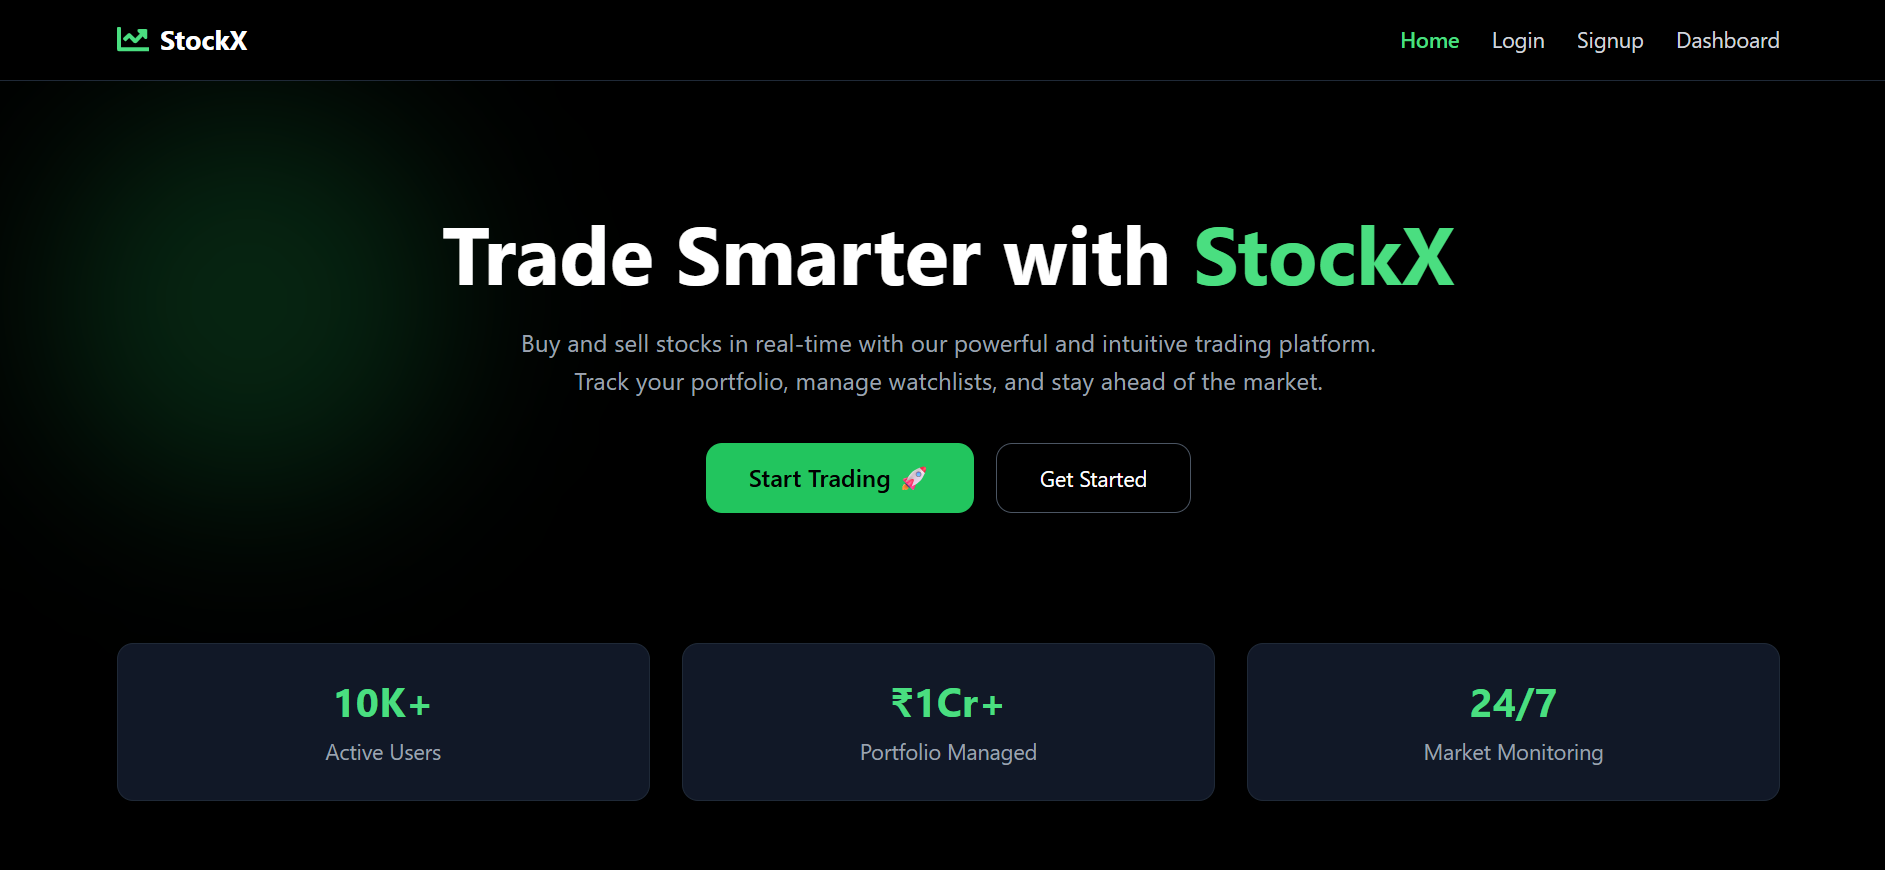
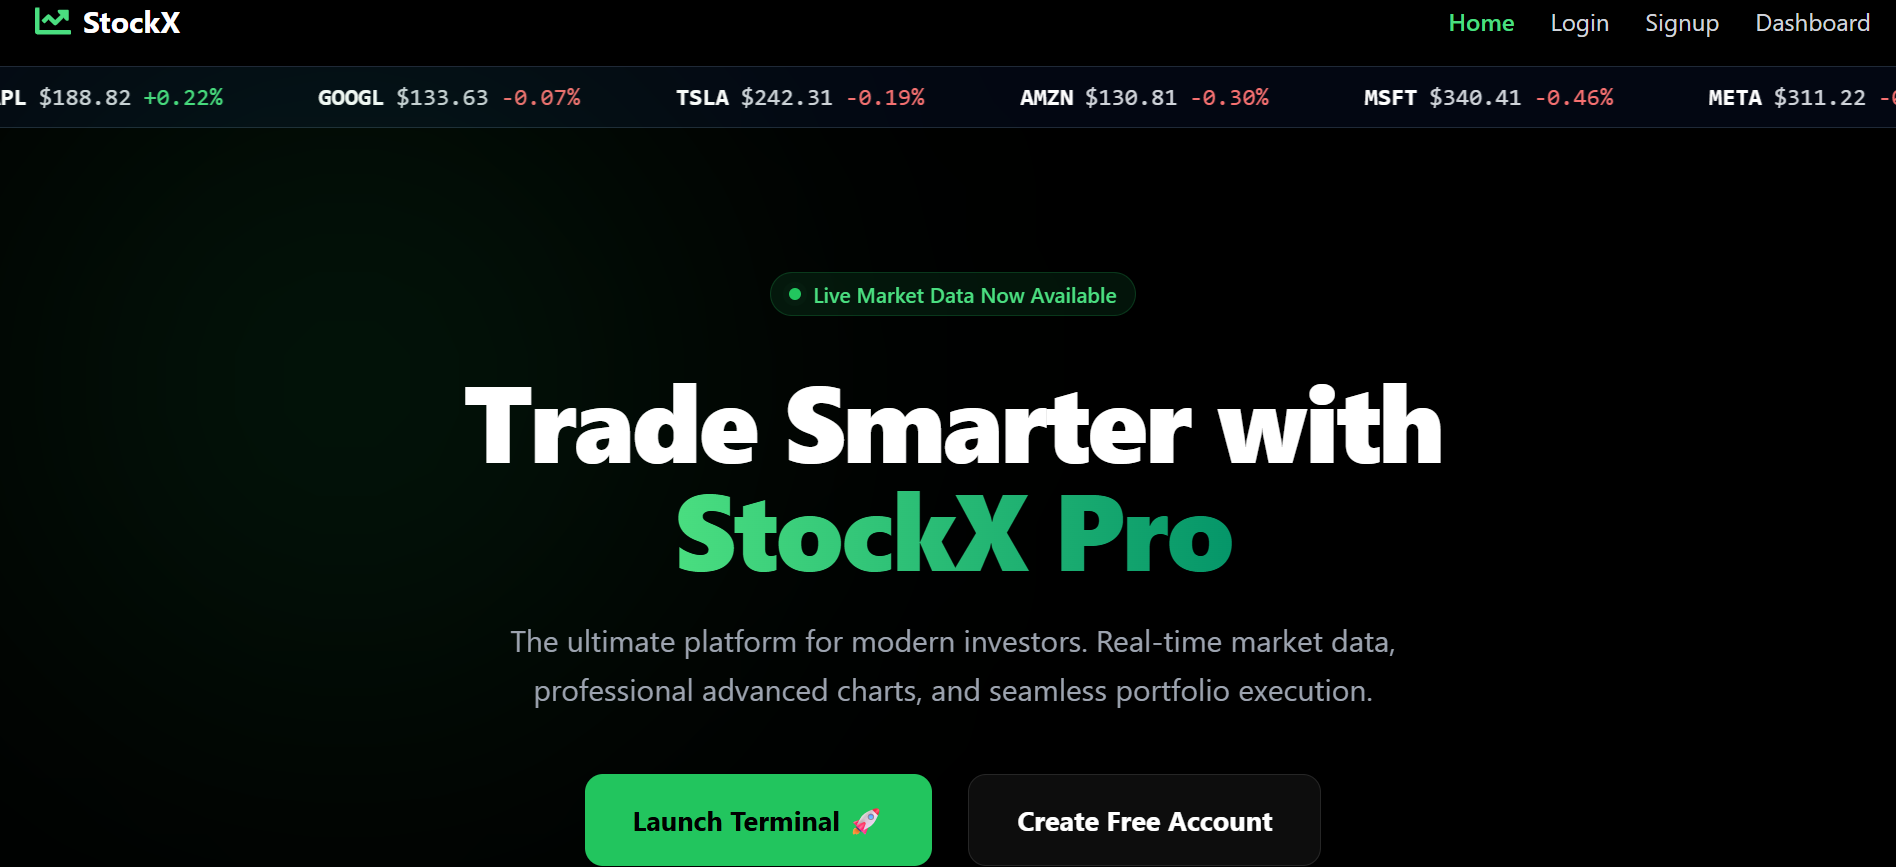
Update

diff --git a/index.html b/index.html
@@ -14,7 +14,7 @@
 
 <body>
 
-  <!-- NAVBAR -->
+  
   <nav>
     <h2>VA</h2>
 
@@ -24,17 +24,17 @@
       <li><a href="#projects">Projects</a></li>
       <li><a href="#certificates">Certificates</a></li>
       <li><a href="#contact">Contact</a></li>
-      <li><a href="public/Resume.pdf" download>Resume</a></li>
+      <li><a href="public/VISHAL RESUME.pdf" download>Resume</a></li>
     </ul>
 
   </nav>
 
-  <!-- HERO -->
+  
   <section class="hero">
 
     <div class="hero-container">
 
-      <!-- LEFT SIDE -->
+      
       <div class="hero-text">
         <h1>Hi, I'm Vishal Anand 👋</h1>
         <h2><span id="typing"></span></h2>
@@ -59,7 +59,7 @@
         </div>
       </div>
 
-      <!-- RIGHT SIDE (PHOTO) -->
+      
       <div class="hero-image">
         <img src="public/picture1.jpeg">
       </div>
@@ -68,7 +68,7 @@
 
   </section>
 
-  <!-- ABOUT -->
+  
   <section id="about">
   <h2>About Me</h2>
 
@@ -94,7 +94,7 @@
 
 </section>
 
-  <!-- SKILLS -->
+  
   <section id="skills">
     <h2>Skills</h2>
 
@@ -118,38 +118,38 @@
     </div>
   </section>
 
-  <!-- PROJECTS (UPDATED 🔥) -->
+  
   <section id="projects">
     <h2>Projects</h2>
 
     <div class="projects-container">
 
       <div class="project-card">
-        <a href="https://github.com/Vishalanand619/stockx" target="_blank">
+        <a href="https://stockx-wheat.vercel.app" target="_blank">
           <img src="public/picture4.png">
         </a>
         <div class="project-info">
-          <h3>Stock Trading Platform</h3>
+          <h3>Stockx :- Real-Time Stock Trading Platform </h3>
           <p>Live stock tracking with charts, watchlist and analytics.</p>
         </div>
       </div>
 
       <div class="project-card">
-        <a href="https://github.com/Vishalanand619" target="_blank">
+        <a href="https://kisan-saathi-rho.vercel.app" target="_blank">
           <img src="public/picture6.jpg">
         </a>
         <div class="project-info">
-          <h3>Agriculture Support Portal</h3>
+          <h3>KisanSaathi – Agriculture Support Portal </h3>
           <p>Platform to assist farmers with data and services.</p>
         </div>
       </div>
 
       <div class="project-card">
-        <a href="https://github.com/Vishalanand619" target="_blank">
+        <a href="https://swasthya-saathi-delta.vercel.app" target="_blank">
           <img src="public/picture5.jpg">
         </a>
         <div class="project-info">
-          <h3>Smart Health Tracker</h3>
+          <h3>SwasthyaSaathi :- Smart Health Tracker</h3>
           <p>Smart system for monitoring and tracking health data.</p>
         </div>
       </div>
@@ -157,25 +157,31 @@
     </div>
   </section>
 
-  <!-- EXPERIENCE -->
+  
+  
   <section id="certificates">
     <h2>Certificates</h2>
 
     <div class="timeline">
 
       <div class="timeline-item">
-        <h3>Full Stack Web Development</h3>
-        <p>Completed MERN stack training covering frontend and backend development.</p>
+        <h3>Infosys Springboard</h3>
+        <p>Introduction to NoSql databases.</p>
       </div>
 
       <div class="timeline-item">
-        <h3>Data Structures & Algorithms</h3>
-        <p>Learned problem solving and optimized coding techniques.</p>
+        <h3>Coursera Board Infinity</h3>
+        <p>Data structure & backend with java. </p>
       </div>
 
       <div class="timeline-item">
-        <h3>Hackathon Participation</h3>
-        <p>Participated in Smart India Hackathon building government solutions.</p>
+        <h3>Infosys Springboard</h3>
+        <p>Introduction to Cybersecurity.</p>
+      </div>
+
+      <div class="timeline-item">
+        <h3>Forage</h3>
+        <p>Advanced software engineering job simulation.</p>
       </div>
 
     </div>
@@ -187,7 +193,8 @@
   <img src="https://github-readme-stats.vercel.app/api?username=Vishalanand619&show_icons=true">
 </section>
 
-  <!-- CONTACT -->
+  
+
   <section id="contact">
     <h2>Contact</h2>
 

diff --git a/script.js b/script.js
@@ -1,4 +1,3 @@
-// Typing Effect
 const text = ["Full Stack Developer", "MERN Developer"];
 let i = 0, j = 0, current = "", del = false;
 